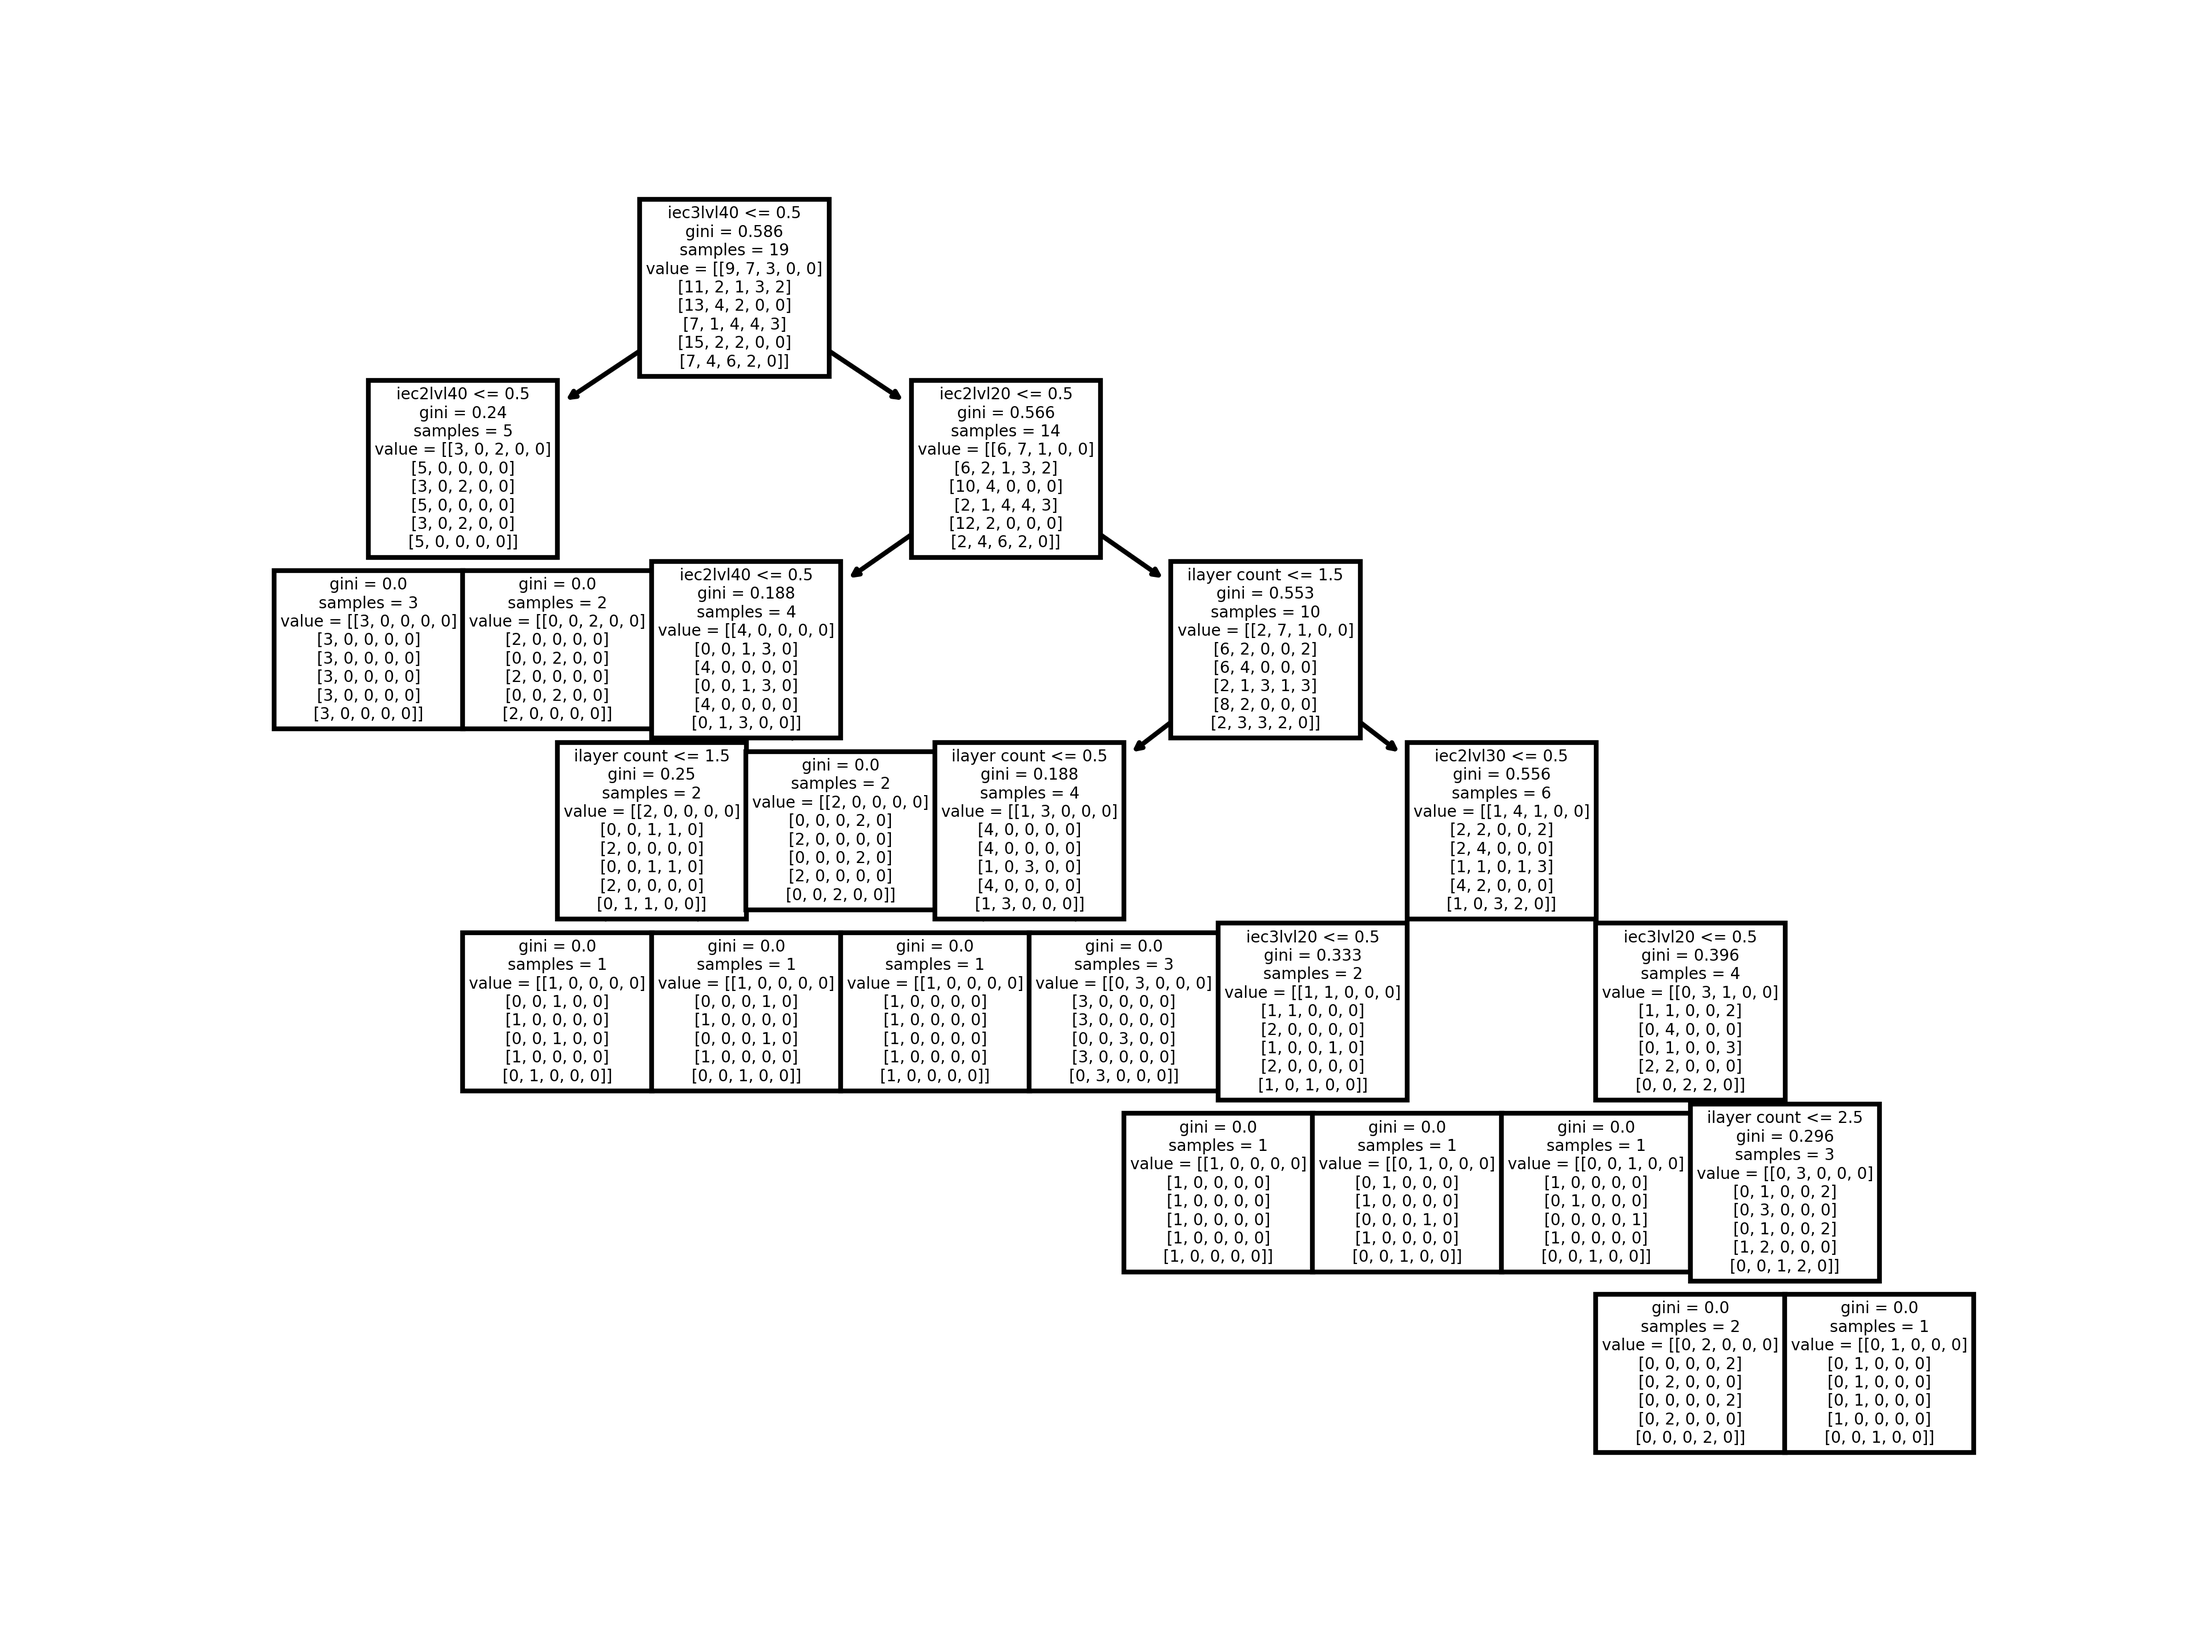
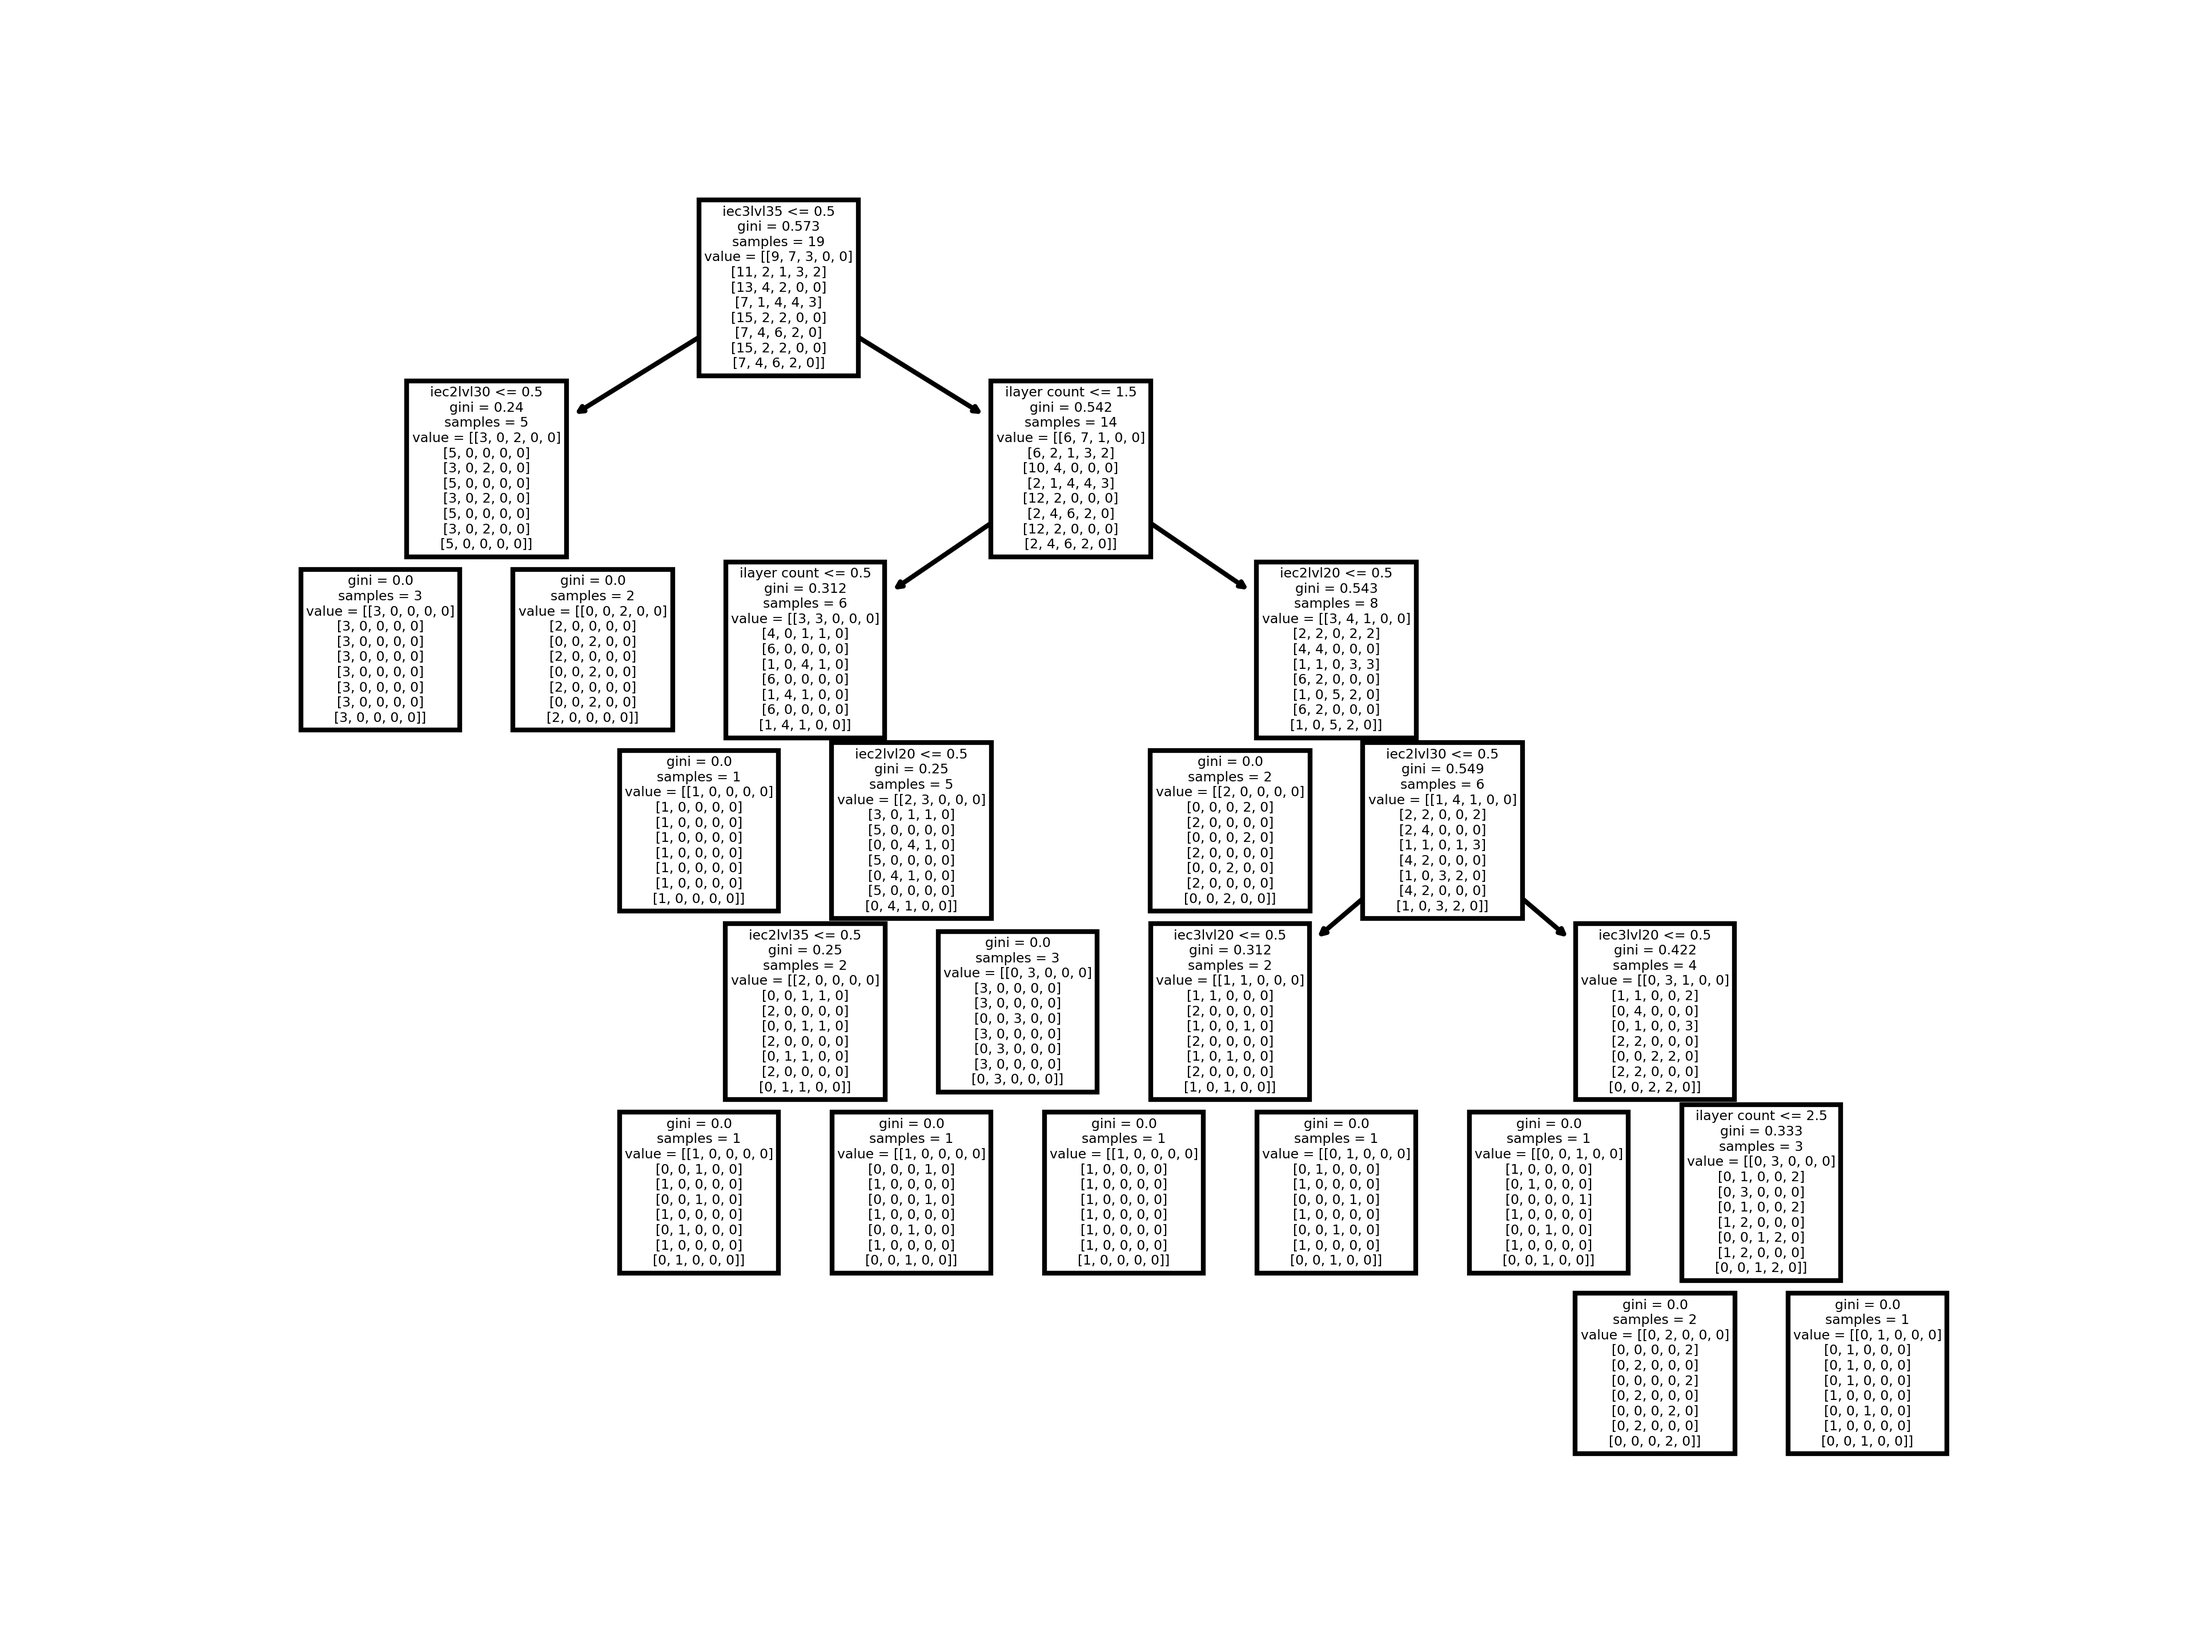
corrected designtree.py to except small routing

Changed region(s): [[0.125, 0.125, 0.9062, 0.9062]]

diff --git a/Python_Script/thinkCore/util/EC2_3.py b/Python_Script/thinkCore/util/EC2_3.py
@@ -98,7 +98,6 @@ class RunData:
 
     def rd_ec2_main(self, station: Station) -> str:  # Main Call to assign what work will be allowed to complete on EC2
         self.build_rbc_progress.ec2_status = 'In-Progress'
-        self.track_sheets.clear()
         # Prediction Keys ['oEC2_Place',	'oEC3_Place',	'oEC2_Fasten',	'oEC3_Fasten',	'oEC2_Routing',	'oEC3_Routing']
         load_balance = self.machine.get_prediction()
         layers = rDH.Layers_RBC(11)
@@ -146,20 +145,16 @@ class RunData:
 
         # Determine if EC2 is Small Routing any material
         missionSmallRoute = [None, None, None, None, None]
-        missionSmallRouting = []
         match load_balance.get('oEC2_SmallRouting'):
             case 100:
-                missionSmallRouting.extend(self.getRoughOutCut(self.panel.get_layer_position(0), station))
-                missionSmallRoute[0] = missionSmallRouting
+                missionSmallRoute[0] = self.get_end_cut(station)
                 self.build_rbc_progress.ec2_operations.append('Route Layer 1')
             case 200:
-                missionSmallRouting.extend(self.getRoughOutCut(self.panel.get_layer_position(1), station))
-                missionSmallRoute[1] = missionSmallRouting
+                missionSmallRoute[1] = self.get_end_cut(station)
                 self.build_rbc_progress.ec2_operations.append('Route Layer 1/2')
             case 123:
                 for i in range(self.panel.get_layer_count()):
-                    missionSmallRoute[i] = self.getRoughOutCut(self.panel.get_layer_position(i), station)
-                missionSmallRoute[1] = missionSmallRouting
+                    missionSmallRoute[i] = self.get_end_cut(station)
                 self.build_rbc_progress.ec2_operations.append('Route All Layers')
             case default:
                 self.build_rbc_progress.ec2_operations.append('No Routing on EC2')
@@ -169,16 +164,16 @@ class RunData:
         missionRouting = []
         match load_balance.get('oEC2_Routing'):
             case 100:
-                missionRouting.extend(self.getRoughOutCut(self.panel.get_layer_position(0), station))
+                missionRouting.extend(self.get_rough_out_cut(self.panel.get_layer_position(0), station))
                 missionRoute[0] = missionRouting
                 self.build_rbc_progress.ec2_operations.append('Route Door/Window Layer 1')
             case 200:
-                missionRouting.extend(self.getRoughOutCut(self.panel.get_layer_position(1), station))
+                missionRouting.extend(self.get_rough_out_cut(self.panel.get_layer_position(1), station))
                 missionRoute[1] = missionRouting
                 self.build_rbc_progress.ec2_operations.append('Route Door/Window Layer 1/2')
             case 123:
                 for i in range(self.panel.get_layer_count()):
-                    missionRoute[i] = self.getRoughOutCut(self.panel.get_layer_position(i), station)
+                    missionRoute[i] = self.get_rough_out_cut(self.panel.get_layer_position(i), station)
                 missionRoute[1] = missionRouting
                 self.build_rbc_progress.ec2_operations.append('Door/Window Route All Layers')
             case default:
@@ -213,7 +208,6 @@ class RunData:
         # Prediction Keys ['oEC2_Place',	'oEC3_Place',	'oEC2_Fasten',	'oEC3_Fasten',	'oEC2_Routing',	'oEC3_Routing']
         load_balance = self.machine.get_prediction()
         layers_ec3 = rDH.Layers_RBC(station.station_id)
-        self.track_sheets.clear()
         # Determine how much material is being placed with EC2
         missionPlace = [None, None, None, None, None]
         match load_balance.get('oEC3_Place'):
@@ -280,15 +274,15 @@ class RunData:
         missionRouting = []
         match load_balance.get('oEC3_Routing'):
             case 100:
-                missionRouting.extend(self.getRoughOutCut(self.panel.get_layer_position(0), station))
+                missionRouting.extend(self.get_rough_out_cut(self.panel.get_layer_position(0), station))
                 missionRoute[0] = missionRouting
                 self.build_rbc_progress.ec3_operations.append('Route Layer 1')
             case 200:
-                missionRouting.extend(self.getRoughOutCut(self.panel.get_layer_position(1), station))
+                missionRouting.extend(self.get_rough_out_cut(self.panel.get_layer_position(1), station))
                 missionRoute[1] = missionRouting
                 self.build_rbc_progress.ec3_operations.append('Route Layer 2')
             case 123:
-                missionRouting.extend(self.getRoughOutCut(self.panel.get_layer_position(1), station))
+                missionRouting.extend(self.get_rough_out_cut(self.panel.get_layer_position(1), station))
                 missionRoute[1] = missionRouting
                 self.build_rbc_progress.ec3_operations.append('Route All Layers')
             case default:
@@ -317,7 +311,6 @@ class RunData:
                 layers_ec3.add_layer(layer)
 
         # Returns a converted layers object to a json string
-        sample = layers_ec3.to_json()
         return layers_ec3.to_json()
 
     # Get Sheet Information       
@@ -408,13 +401,14 @@ class RunData:
             place.Info_12 = 0
 
             # Fastening
-            fasteners = self.get_board_fastener(pick, layer, material, working_station)
+            fasteners = self.get_board_fasten(pick, layer, material, working_station)
             # Pick and Place Locations are added to the list
             boardData = rDH.BoardData_RBC(board_pick=pick, board_place=place, board_fasten=fasteners)
             # Now we have to add the missions for temp fastening that board
 
             layerData.add_board(boardData)
-            self.track_sheets.append(sheet.get('elementguid'))
+            if sheet.get('elementguid') not in self.track_sheets:
+                self.track_sheets.append(sheet.get('elementguid'))
         # this information will be used when building fastener requirements for layer
         layIndex = self.panel.get_layer_index(layer)
         fast = material.fastenNum
@@ -423,7 +417,7 @@ class RunData:
 
         return layerData
 
-    def get_board_fastener(self, board: rDH.missionData_RBC, active_layer, i_material: Material, working_station: Station) -> list[rDH.missionData_RBC]:
+    def get_board_fasten(self, board: rDH.missionData_RBC, active_layer, i_material: Material, working_station: Station) -> list[rDH.missionData_RBC]:
         studSpace = 406
         shiftspace = round(18 / 25.4, 2)
         # Open Database Connection
@@ -488,9 +482,9 @@ class RunData:
                 else:
                     fasten.Info_04 = round((result.get('e2y') - offsetEnd) * 25.4, 2)  # Y End Position
                 # fasten.Info_10 = round(fasten.Info_04 - fasten.Info_02, 2)
-                motionlength = fasten.Info_04 - fasten.Info_02
-                fastenCount = round(motionlength / studSpace) + 1
-                fasten.Info_10 = round(motionlength / fastenCount)
+                motion_length = fasten.Info_04 - fasten.Info_02
+                fastenCount = round(motion_length / studSpace) + 1
+                fasten.Info_10 = round(motion_length / fastenCount)
                 if fasten.missionID == 110:
                     fasten.Info_11 = self.machine.toolIndex
                     if self.machine.toolIndex >= 8:
@@ -509,9 +503,9 @@ class RunData:
                     fasten.Info_03 = round((sql_wEnd - offsetEnd) * 25.4, 2)
                 else:
                     fasten.Info_03 = round((result.get('e4x') - offsetEnd) * 25.4, 2)
-                motionlength = abs(fasten.Info_03 - fasten.Info_01)
-                fastenCount = round(motionlength / studSpace) + 1
-                fasten.Info_10 = round(motionlength / fastenCount)
+                motion_length = abs(fasten.Info_03 - fasten.Info_01)
+                fastenCount = round(motion_length / studSpace) + 1
+                fasten.Info_10 = round(motion_length / fastenCount)
                 if fasten.Info_10 < 75:
                     fasten.Info_10 = studSpace
                 if fasten.missionID == 110:
@@ -707,7 +701,7 @@ class RunData:
 
         return mission
 
-    def getRoughOutCut(self, layer, working_station: Station):
+    def get_rough_out_cut(self, layer, working_station: Station):
         # Open Database Connection
         pgDB = dBC.DB_Connect()
         pgDB.open()
@@ -781,14 +775,14 @@ class RunData:
         pgDB.open()
         sql_var1 = self.panel.guid
         sql_var2 = tuple(self.track_sheets)
-        sql_var3 = working_station.off_cut
+        sql_var3 = round(working_station.off_cut / 25.4, 2)
         sql_select_query = f"""
                         SELECT to_jsonb(panel)
                         from cad2fab.system_elements panel
                         where panelguid = '{sql_var1}' 
                         AND elementguid in {sql_var2}
                         AND "type" = 'Sheet' 
-                        AND '{sql_var3}' < actual_width < 48
+                        AND actual_width between {sql_var3} and 48
                         order by b1x;
                         """
 
@@ -816,12 +810,12 @@ class RunData:
             else:
                 logging.warning(
                     'Did not add Route for member' + self.panel.guid + '__' + result.get('elementguid'))
-
-            route_list.append(route)
+            if hasattr(route, 'Info_01'):
+                route_list.append(route)
 
         return route_list
 
-    def get_cws(self, element: dict, ipgDB: dBC, max_previous):
+    def get_cws(self, element: dict, ipg_db: dBC, max_previous):
         cwsPos = 0
         if element.get('description') == 'Stud':
             sql_var1 = self.panel.guid  # Panel ID
@@ -847,8 +841,8 @@ class RunData:
                                 and elementguid != '{sql_var2}';
                                 """
 
-            results_Pre = ipgDB.query(sql_statement=sql_select_query1)
-            results_Post = ipgDB.query(sql_statement=sql_select_query2)
+            results_Pre = ipg_db.query(sql_statement=sql_select_query1)
+            results_Post = ipg_db.query(sql_statement=sql_select_query2)
             if len(results_Pre) == 0 and len(results_Post) == 0 and element.get('e1x') > (
                     round(max_previous / 25.4, 2) + 1):
                 leadEdge = element.get('e1x')

diff --git a/Python_Script/thinkCore/util/designtree.py b/Python_Script/thinkCore/util/designtree.py
@@ -7,11 +7,11 @@ from sklearn.tree import DecisionTreeClassifier
 
 
 def process_builder(predict: list, app_settings):
-    """"Prediction List to Compute 'iec2lvl20', 'iec2lvl30',	'iec2lvl40',	'iec3lvl20',	'iec3lvl30',	'iec3lvl40',	'ilayer count'"""
+    """"Prediction List to Compute 'iec2lvl20', 'iec2lvl30', 'iec2lvl35', 'iec2lvl40',	'iec3lvl20',	'iec3lvl30', 'iec3lvl35', 'iec3lvl40',	'ilayer count'"""
     df = pandas.read_csv(app_settings.get('TruthTable'))
 
-    features = ['iec2lvl20', 'iec2lvl30', 'iec2lvl40', 'iec3lvl20', 'iec3lvl30', 'iec3lvl40', 'ilayer count']
-    results = ['oEC2_Place', 'oEC3_Place', 'oEC2_Fasten', 'oEC3_Fasten', 'oEC2_Routing', 'oEC3_Routing']
+    features = ['iec2lvl20', 'iec2lvl30', 'iec2lvl35', 'iec2lvl40', 'iec3lvl20', 'iec3lvl30', 'iec3lvl35', 'iec3lvl40', 'ilayer count']
+    results = ['oEC2_Place', 'oEC3_Place', 'oEC2_Fasten', 'oEC3_Fasten', 'oEC2_SmallRouting', 'oEC3_SmallRouting',  'oEC2_Routing', 'oEC3_Routing']
     X = df[features]
     Y = df[results]
 

diff --git a/Python_Script/thinkCore/Validator/rbcCheck.py b/Python_Script/thinkCore/Validator/rbcCheck.py
@@ -1,0 +1,6 @@
+from util import runData_Helper
+
+# This file is used to check the viability of the recipe that has been generated before allowing it to be added to the Database
+
+#TODO Board Placement
+#TODO
